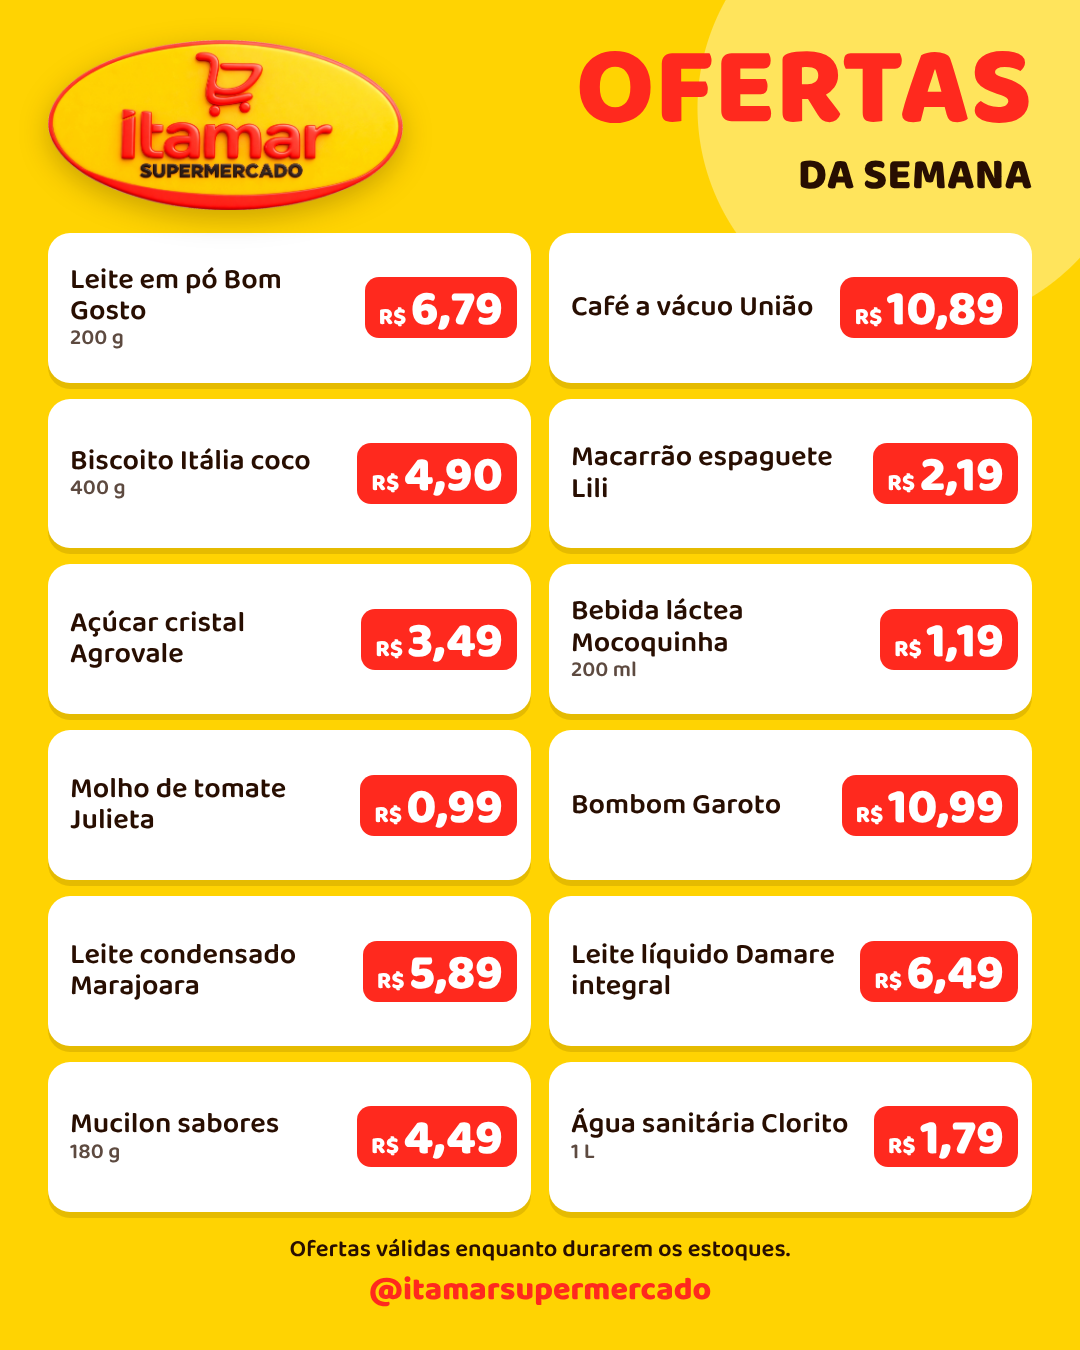
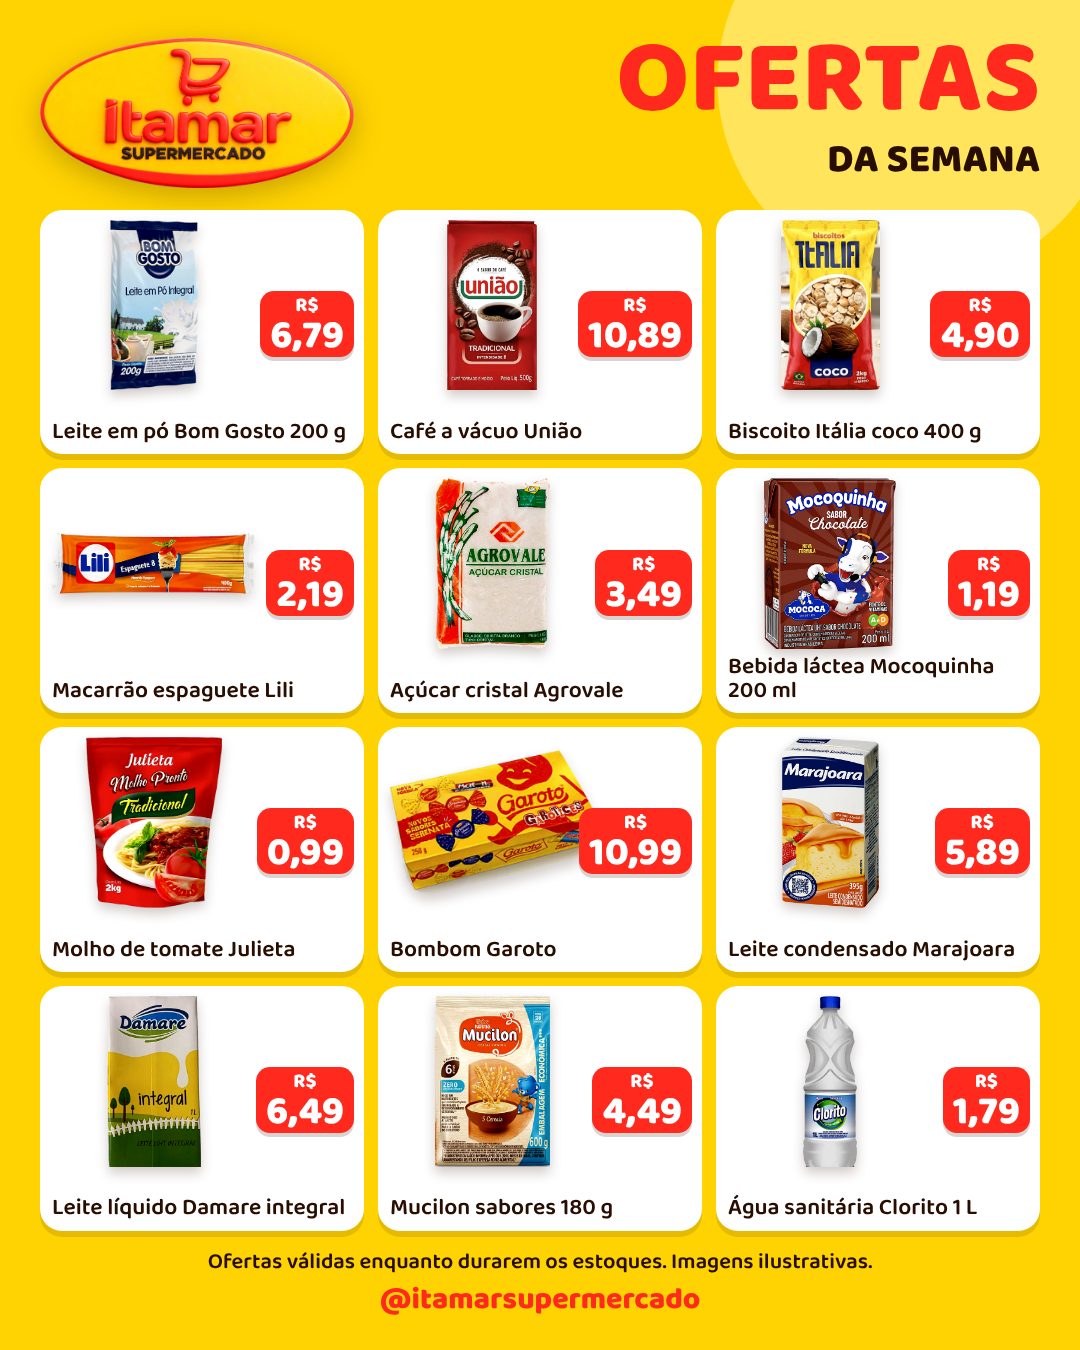
Itamar: card de ofertas com fotos recortadas dos 12 produtos
Fotos enviadas pelo dono, recorte de fundo e ajuste de luz/nitidez com
ferramentas/recorte.py (PIL, sem custo). Layout 3x4 com foto e preço.

Claude-Session: https://claude.ai/code/session_01RAcsiCUqH9iCNBekL3L4L7

diff --git a/clientes/itamar-supermercado/entregas/2026-11-19-ofertas-mercearia/card-ofertas.html b/clientes/itamar-supermercado/entregas/2026-11-19-ofertas-mercearia/card-ofertas.html
@@ -1,36 +1,36 @@
 <!doctype html><meta charset="utf-8"><meta name="tamanho" content="1080x1350"><link rel="stylesheet" href="../../../../ferramentas/fontes.css">
-<!-- Card de ofertas 12 itens (lista sem fotos). Preços enviados pelo dono em 19/11/2026. -->
+<!-- Card de ofertas 12 itens com fotos. Preços enviados pelo dono em 19/11/2026. Fotos em ../../fotos/produtos/mercearia/ -->
 <style>
 :root{--amarelo:#FFD302;--vermelho:#FF291E;--marrom:#280E01}
 *{box-sizing:border-box;margin:0}
-body{width:1080px;height:1350px;background:var(--amarelo);font-family:"Baloo 2",sans-serif;color:var(--marrom);display:flex;flex-direction:column;padding:40px 48px 34px;gap:22px;background-image:radial-gradient(circle at 85% 8%,#FFE45C 0 220px,transparent 221px)}
+body{width:1080px;height:1350px;background:var(--amarelo);font-family:"Baloo 2",sans-serif;color:var(--marrom);display:flex;flex-direction:column;padding:34px 40px 26px;gap:18px;background-image:radial-gradient(circle at 85% 6%,#FFE45C 0 200px,transparent 201px)}
 .top{display:flex;align-items:center;justify-content:space-between}
-.top img{height:170px;filter:drop-shadow(0 8px 14px rgba(40,14,1,.25))}
+.top img{height:150px;filter:drop-shadow(0 8px 14px rgba(40,14,1,.25))}
 .titulo{text-align:right;line-height:.9}
-.titulo b{display:block;font:800 112px/0.9 "Baloo 2";color:var(--vermelho)}
-.titulo span{font:800 44px "Baloo 2"}
-.grid{flex:1;display:grid;grid-template-columns:1fr 1fr;grid-auto-rows:1fr;gap:16px 18px}
-.p{background:#fff;border-radius:22px;padding:12px 14px 12px 22px;display:flex;align-items:center;gap:12px;box-shadow:0 6px 0 rgba(40,14,1,.12)}
-.nome{flex:1;font:600 29px/1.08 "Baloo 2"}
-.nome small{display:block;font-size:22px;font-weight:600;opacity:.75}
-.preco{background:var(--vermelho);color:#fff;border-radius:14px;padding:6px 14px 0;font:800 50px/1.1 "Baloo 2";white-space:nowrap}
-.preco small{font-size:24px;margin-right:4px}
-.rod{text-align:center;font:600 24px/1.3 "Baloo 2"}
-.arroba{font:800 32px "Baloo 2";color:var(--vermelho)}
+.titulo b{display:block;font:800 104px/0.9 "Baloo 2";color:var(--vermelho)}
+.titulo span{font:800 40px "Baloo 2"}
+.grid{flex:1;display:grid;grid-template-columns:repeat(3,1fr);grid-template-rows:repeat(4,1fr);gap:14px}
+.p{background:#fff;border-radius:22px;padding:10px 12px 10px;display:flex;flex-direction:column;box-shadow:0 6px 0 rgba(40,14,1,.12);position:relative;min-height:0}
+.foto{flex:1;min-height:0;background:center/contain no-repeat;margin-right:96px;filter:drop-shadow(0 6px 6px rgba(40,14,1,.22))}
+.nome{font:600 23px/1.05 "Baloo 2";margin-top:6px;height:48px;display:flex;align-items:flex-end}
+.preco{position:absolute;right:10px;top:50%;transform:translateY(-62%);background:var(--vermelho);color:#fff;border-radius:14px;padding:4px 10px 0;font:800 40px/1.05 "Baloo 2";text-align:center;box-shadow:0 4px 0 rgba(40,14,1,.18)}
+.preco small{display:block;font-size:20px;line-height:1}
+.rod{text-align:center;font:600 22px/1.25 "Baloo 2"}
+.arroba{font:800 30px "Baloo 2";color:var(--vermelho)}
 </style>
 <div class="top"><img src="../../identidade/logo-itamar-3d-transparente.png" alt=""><div class="titulo"><b>OFERTAS</b><span>DA SEMANA</span></div></div>
 <div class="grid">
-  <div class="p"><div class="nome">Leite em pó Bom Gosto<small>200 g</small></div><div class="preco"><small>R$</small>6,79</div></div>
-  <div class="p"><div class="nome">Café a vácuo União</div><div class="preco"><small>R$</small>10,89</div></div>
-  <div class="p"><div class="nome">Biscoito Itália coco<small>400 g</small></div><div class="preco"><small>R$</small>4,90</div></div>
-  <div class="p"><div class="nome">Macarrão espaguete Lili</div><div class="preco"><small>R$</small>2,19</div></div>
-  <div class="p"><div class="nome">Açúcar cristal Agrovale</div><div class="preco"><small>R$</small>3,49</div></div>
-  <div class="p"><div class="nome">Bebida láctea Mocoquinha<small>200 ml</small></div><div class="preco"><small>R$</small>1,19</div></div>
-  <div class="p"><div class="nome">Molho de tomate Julieta</div><div class="preco"><small>R$</small>0,99</div></div>
-  <div class="p"><div class="nome">Bombom Garoto</div><div class="preco"><small>R$</small>10,99</div></div>
-  <div class="p"><div class="nome">Leite condensado Marajoara</div><div class="preco"><small>R$</small>5,89</div></div>
-  <div class="p"><div class="nome">Leite líquido Damare integral</div><div class="preco"><small>R$</small>6,49</div></div>
-  <div class="p"><div class="nome">Mucilon sabores<small>180 g</small></div><div class="preco"><small>R$</small>4,49</div></div>
-  <div class="p"><div class="nome">Água sanitária Clorito<small>1 L</small></div><div class="preco"><small>R$</small>1,79</div></div>
+  <div class="p"><div class="foto" style="background-image:url(../../fotos/produtos/mercearia/leite-em-po-bom-gosto-200g.png)"></div><div class="nome">Leite em pó Bom Gosto 200 g</div><div class="preco"><small>R$</small>6,79</div></div>
+  <div class="p"><div class="foto" style="background-image:url(../../fotos/produtos/mercearia/cafe-uniao-tradicional-500g.png)"></div><div class="nome">Café a vácuo União</div><div class="preco"><small>R$</small>10,89</div></div>
+  <div class="p"><div class="foto" style="background-image:url(../../fotos/produtos/mercearia/biscoito-italia-coco-2kg.png)"></div><div class="nome">Biscoito Itália coco 400 g</div><div class="preco"><small>R$</small>4,90</div></div>
+  <div class="p"><div class="foto" style="background-image:url(../../fotos/produtos/mercearia/macarrao-espaguete-lili-400g.png)"></div><div class="nome">Macarrão espaguete Lili</div><div class="preco"><small>R$</small>2,19</div></div>
+  <div class="p"><div class="foto" style="background-image:url(../../fotos/produtos/mercearia/acucar-cristal-agrovale-1kg.png)"></div><div class="nome">Açúcar cristal Agrovale</div><div class="preco"><small>R$</small>3,49</div></div>
+  <div class="p"><div class="foto" style="background-image:url(../../fotos/produtos/mercearia/bebida-lactea-mocoquinha-200ml.png)"></div><div class="nome">Bebida láctea Mocoquinha 200 ml</div><div class="preco"><small>R$</small>1,19</div></div>
+  <div class="p"><div class="foto" style="background-image:url(../../fotos/produtos/mercearia/molho-julieta-tradicional-2kg.png)"></div><div class="nome">Molho de tomate Julieta</div><div class="preco"><small>R$</small>0,99</div></div>
+  <div class="p"><div class="foto" style="background-image:url(../../fotos/produtos/mercearia/bombom-garoto-250g.png)"></div><div class="nome">Bombom Garoto</div><div class="preco"><small>R$</small>10,99</div></div>
+  <div class="p"><div class="foto" style="background-image:url(../../fotos/produtos/mercearia/leite-condensado-marajoara-395g.png)"></div><div class="nome">Leite condensado Marajoara</div><div class="preco"><small>R$</small>5,89</div></div>
+  <div class="p"><div class="foto" style="background-image:url(../../fotos/produtos/mercearia/leite-damare-integral-1l.png)"></div><div class="nome">Leite líquido Damare integral</div><div class="preco"><small>R$</small>6,49</div></div>
+  <div class="p"><div class="foto" style="background-image:url(../../fotos/produtos/mercearia/mucilon-5-cereais-600g.png)"></div><div class="nome">Mucilon sabores 180 g</div><div class="preco"><small>R$</small>4,49</div></div>
+  <div class="p"><div class="foto" style="background-image:url(../../fotos/produtos/mercearia/agua-sanitaria-clorito-1l.png)"></div><div class="nome">Água sanitária Clorito 1 L</div><div class="preco"><small>R$</small>1,79</div></div>
 </div>
-<p class="rod">Ofertas válidas enquanto durarem os estoques.<br><b class="arroba">@itamarsupermercado</b></p>
+<p class="rod">Ofertas válidas enquanto durarem os estoques. Imagens ilustrativas.<br><b class="arroba">@itamarsupermercado</b></p>

diff --git a/ferramentas/recorte.py b/ferramentas/recorte.py
@@ -1,0 +1,41 @@
+#!/usr/bin/env python3
+"""Recorte gratuito de produto em fundo claro + ajuste de luz/nitidez (PIL + numpy).
+Uso: python3 ferramentas/recorte.py entrada.jpg saida.png x0,y0,x1,y1 [--tol 22] [--retangulo]
+- crop: caixa em volta do produto (tira ícones/UI da captura de tela).
+- fundo: tudo que for quase branco e ligado à borda da caixa vira transparente.
+- --retangulo: em vez de fundo, usa a caixa toda com cantos arredondados (fundos com cenário)."""
+import sys, numpy as np
+from PIL import Image, ImageFilter, ImageOps, ImageEnhance, ImageDraw
+
+def conectado(cand):
+    m = np.zeros_like(cand); m[0,:]=cand[0,:]; m[-1,:]=cand[-1,:]; m[:,0]=cand[:,0]; m[:,-1]=cand[:,-1]
+    while True:
+        d = m.copy()
+        d[1:,:]|=m[:-1,:]; d[:-1,:]|=m[1:,:]; d[:,1:]|=m[:,:-1]; d[:,:-1]|=m[:,1:]
+        d &= cand
+        if (d==m).all(): return m
+        m = d
+
+def main():
+    a=sys.argv; ent,sai=a[1],a[2]; box=tuple(int(v) for v in a[3].split(','))
+    tol=int(a[a.index('--tol')+1]) if '--tol' in a else 22
+    im=Image.open(ent).convert('RGB').crop(box)
+    # luz e nitidez
+    im=ImageOps.autocontrast(im,cutoff=0.5,preserve_tone=True)
+    im=ImageEnhance.Color(im).enhance(1.10)
+    im=ImageEnhance.Contrast(im).enhance(1.05)
+    im=im.filter(ImageFilter.UnsharpMask(radius=2,percent=90,threshold=2))
+    if '--retangulo' in a:
+        alpha=Image.new('L',im.size,0); ImageDraw.Draw(alpha).rounded_rectangle([0,0,im.width-1,im.height-1],radius=28,fill=255)
+    else:
+        arr=np.asarray(im).astype(int)
+        mn=arr.min(2); mx=arr.max(2)
+        cand=(mn>255-tol-8)&((mx-mn)<tol)
+        fundo=conectado(cand)
+        alpha=Image.fromarray(np.where(fundo,0,255).astype('uint8'))
+        alpha=alpha.filter(ImageFilter.MaxFilter(3)).filter(ImageFilter.MinFilter(5)).filter(ImageFilter.GaussianBlur(1))
+    im.putalpha(alpha)
+    bb=alpha.point(lambda v:255 if v>20 else 0).getbbox(); im=im.crop(bb)
+    im.save(sai)
+    print(sai, im.size)
+main()

diff --git a/clientes/itamar-supermercado/fotos/LEIA-ME.md b/clientes/itamar-supermercado/fotos/LEIA-ME.md
@@ -4,3 +4,6 @@
 Produto reaproveitado entre semanas: não precisa mandar a foto de novo.
 `produtos/acougue/` — 38 cortes do açougue em PNG sem fundo. 35 vieram do vídeo de TV original do cliente;
 `carne-moida.png`, `ossos-bovinos.png` e `cha-de-fora-com-osso.png` são ilustrativas (geradas por IA, trocar se o cliente mandar foto).
+`produtos/mercearia/` — 12 itens de mercearia (19/11/2026). `originais/` = capturas enviadas pelo dono;
+PNG = recorte sem fundo + ajuste de luz/nitidez feito com `ferramentas/recorte.py` (sem custo).
+Atenção: algumas embalagens das fotos têm peso diferente do ofertado (Mucilon 600 g, Julieta 2 kg, Itália 2 kg).
